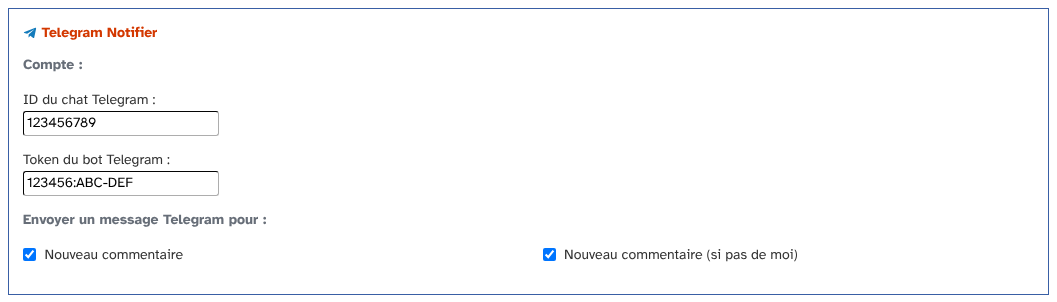
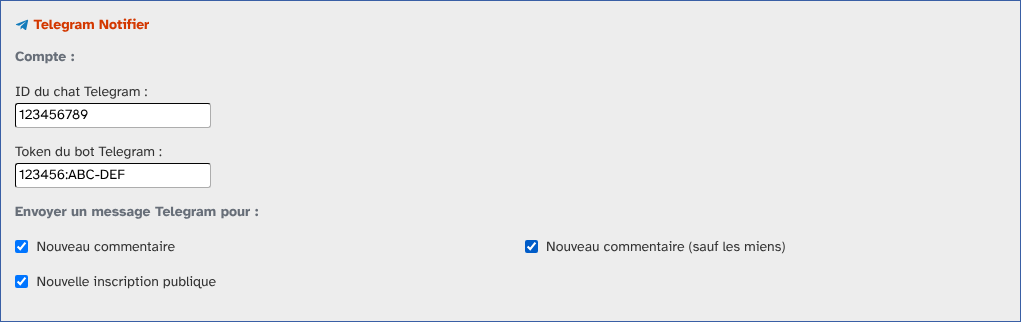
[cosmetic] User guide: follow the configuration, message and sending fixes

Changed region(s): [[0.0, 0.0, 1.0, 1.0], [0.5162, 0.745, 0.7894, 0.8642]]

diff --git a/docs/fr/utilisation.md b/docs/fr/utilisation.md
@@ -29,20 +29,20 @@ Il faut deux informations, à obtenir dans Telegram :
 
 ![Le cadre Telegram Notifier dans les préférences](img/preferences-telegram.png)
 
-À l'enregistrement, le plugin interroge Telegram pour vérifier ces valeurs. Si Telegram refuse, le message « Impossible de configurer Telegram » s'affiche et les valeurs ne sont pas gardées.
+À l'enregistrement, le plugin interroge Telegram pour vérifier ces valeurs. Si Telegram refuse, le message « Configuration Telegram non enregistrée : » s'affiche, suivi de la raison donnée par Telegram, et les valeurs ne sont pas gardées.
 
 Chaque utilisateur du blog a ses propres valeurs.
 
 ## Choisir les messages
 
-Les cases n'apparaissent qu'une fois l'ID et le token enregistrés. Il faut donc enregistrer deux fois : d'abord le compte, puis les messages.
-
 Sous « Envoyer un message Telegram pour », cochez ce que vous voulez recevoir :
 
 * « Nouveau commentaire » : tous les nouveaux commentaires ;
-* « Nouveau commentaire (si pas de moi) » : seulement ceux dont l'adresse e-mail n'est pas la vôtre (ni l'une des adresses de votre profil).
+* « Nouveau commentaire (sauf les miens) » : seulement ceux dont l'adresse e-mail n'est pas la vôtre (ni l'une des adresses de votre profil).
 
 Si vous cochez les deux, vous recevrez deux messages par commentaire.
+
+D'autres plugins peuvent ajouter leurs propres messages à cette liste, par exemple « Nouvelle inscription publique » avec FrontendSession.
 
 Les messages envoyés sont réservés aux utilisateurs qui ont une permission de gestion sur le blog (utilisation, publication, suppression ou administration du contenu), ou aux administrateurs.
 
@@ -52,14 +52,16 @@ Le message contient :
 
 * le titre « Nouveau commentaire » ;
 * le nom du blog ;
-* l'entrée commentée, avec un lien ;
-* l'auteur du commentaire et son adresse e-mail.
+* le billet commenté, avec un lien ;
+* le nom de l'auteur du commentaire.
+
+L'adresse e-mail du visiteur n'est jamais envoyée à Telegram.
 
 Le texte du commentaire n'est pas envoyé. Les commentaires classés indésirables ne déclenchent rien.
 
 ## Bon à savoir
 
 * Le token donne le contrôle du bot : ne le partagez pas.
-* Un message qui n'a pas pu partir n'est pas signalé : aucun message d'erreur ni journal. Le mode debug de Dotclear affiche l'erreur.
+* Les messages partent une fois la page du visiteur envoyée : il n'attend pas Telegram. Un message qui n'a pas pu partir est noté dans le journal d'erreurs PHP du serveur.
 * Seuls les commentaires créés depuis le site public déclenchent un message.
 * Le plugin peut être étendu pour d'autres messages : voir le README.
